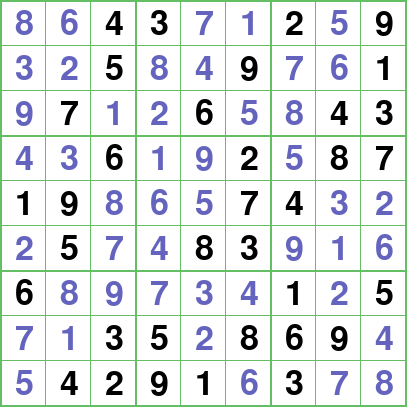
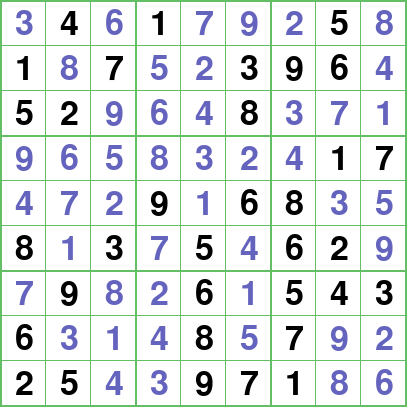
wew

diff --git a/sudoku_copy.py b/sudoku_copy.py
@@ -10,10 +10,10 @@ pygame.display.set_caption('Sudoku Solver')
 # GLOBAL VARIABLES
 W = 407 # refer to test.py to get dimensions
 H = 407 # added 2 pixels for 3x3 subgrid emphasis with double lines
-win = pygame.display.set_mode((W, H))   
+win = pygame.display.set_mode((W, H))
 cellw = W // 9
 cellh = H // 9
-TICK_SPEED = 100 # lower = slower
+TICK_SPEED = 1000 # lower = slower
 
 # COLORS
 WHITE = (255,255,255)
@@ -27,8 +27,7 @@ background = background.convert()
 background.fill(WHITE)
 
 # SAMPLE GAME
-# sudoku = '004300209005009001070060043006002087190007400050083000600000105003508690042910300'
-sudoku = '040100050107003960520008000000000017000906800803050620090060543600080700250097100'
+sudoku = '004300209005009001070060043006002087190007400050083000600000105003508690042910300'
 output_file_name = 'sudoku1.png'
 
 # GAME -> original copy, used to backtrack to the previous zero value cell
@@ -161,6 +160,7 @@ def main():
     while run:
         for event in pygame.event.get():
             if event.type == pygame.QUIT: 
+                print(seen)
                 run = False
 
         draw_bg()
@@ -181,6 +181,9 @@ def main():
             ls = seen[(x, y)]
             start = ls[-1] if len(ls) else 1
             for i in range(start, 10):
+                if (x, y) == (0, 4):
+                    print(i, is_valid(x, y, i, True))
+
                 clear_num(x, y)
                 draw_num(i, x, y, col=BLUE, win=solution_surface)
                 refresh()
@@ -201,6 +204,7 @@ def main():
                     continue
                 x, y = res
                 solution[x][y] = 0
+                print((x, y))
                 continue
             else:
                 seen[(x, y)].append(i)
